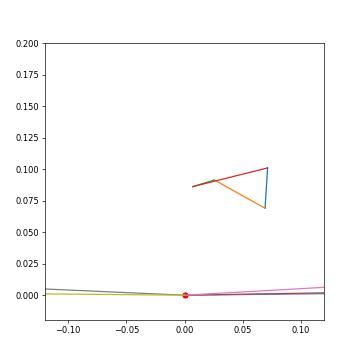
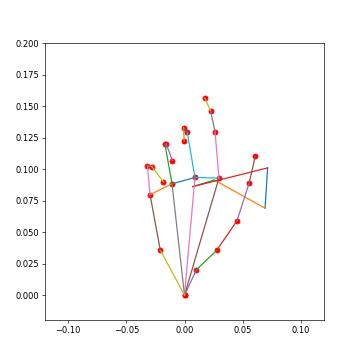
update

diff --git a/openteach/components/detector/keypoint_transform.py b/openteach/components/detector/keypoint_transform.py
@@ -109,29 +109,45 @@ class TransformHandPositionCoords(Component):
                 data_type, hand_coords_right = self._get_hand_coords_right()
 
                 # Find the transformed hand coordinates and the transformed hand local frame
-                _, translated_hand_coord_frame_left = self.transform_keypoints(hand_coords_left)
-                transformed_hand_coords_right, _ = self.transform_keypoints(hand_coords_right)
-
+                transformed_hand_coords_left, translated_hand_coord_frame_left = self.transform_keypoints(hand_coords_left)
+                transformed_hand_coords_right, translated_hand_coord_frame_right = self.transform_keypoints(hand_coords_right)
+ 
+                
+                # transformed_hand_coords=np.stack((transformed_hand_coords_right[0], transformed_hand_coords_left[1:]),axis=0)
+                #translated_hand_coord_frame=np.stack((translated_hand_coord_frame_right[0], translated_hand_coord_frame_left[1:]),axis=0)
+                # print(transformed_hand_coords_right[0].shape)
+                # print(transformed_hand_coords_right[1:].shape)
+                #translated_hand_coord_frame=np.stack((translated_hand_coord_frame_right[0], translated_hand_coord_frame_left[1:]),axis=0)
+                #print(translated_hand_coord_frame.shape)
                 # Passing the transformed coords into a moving average to filter the noise. The higher the moving average limit, the more the noise is filtered. But values higher than 50 might make the keypoint less responsive.
                 self.averaged_hand_coords = moving_average(
-                    transformed_hand_coords_right, 
+                    transformed_hand_coords_left, 
                     self.coord_moving_average_queue, 
                     self.moving_average_limit
                 )
 
                 # Passing the transformed frame into a moving average to filter the noise. The higher the moving average limit, the more the noise is filtered. But the
-                self.averaged_hand_frame = moving_average(
+                averaged_hand_frame_left = moving_average(
                     translated_hand_coord_frame_left, 
                     self.frame_moving_average_queue, 
                     self.moving_average_limit
                 )
+                
+                averaged_hand_frame_right = moving_average(
+                    translated_hand_coord_frame_right, 
+                    self.frame_moving_average_queue, 
+                    self.moving_average_limit
+                )
                 # Publish the transformed hand coordinates
-                print(self.averaged_hand_coords)
-                print(self.averaged_hand_frame)
                 self.transformed_keypoint_publisher.pub_keypoints(self.averaged_hand_coords, 'transformed_hand_coords')
                 # Publish the transformed hand frame
                 if data_type == 'absolute':
+                    t=averaged_hand_frame_right[0]
+                    self.averaged_hand_frame=np.concatenate((t[[0,2,1]].reshape(1,-1), averaged_hand_frame_left[1:]),axis=0)
+                    #print(self.averaged_hand_frame)
                     self.transformed_keypoint_publisher.pub_keypoints(self.averaged_hand_frame, 'transformed_hand_frame')
+                    
+                    
                 
                 # End the timer
                 self.timer.end_loop()

diff --git a/openteach/components/detector/keypoint_transform_backup.py b/openteach/components/detector/keypoint_transform_backup.py
@@ -38,13 +38,9 @@ class TransformHandPositionCoords(Component):
 
     # Create a coordinate frame for the hand
     def _get_coord_frame(self, index_knuckle_coord, pinky_knuckle_coord):
-        # palm_normal = normalize_vector(np.cross(index_knuckle_coord, pinky_knuckle_coord))   # Current Z
-        # palm_direction = normalize_vector(index_knuckle_coord + pinky_knuckle_coord)         # Current Y
-        # cross_product = normalize_vector(np.cross(palm_direction, palm_normal))              # Current X
-        palm_normal = np.cross(index_knuckle_coord, pinky_knuckle_coord)   # Current Z
-        palm_direction = index_knuckle_coord + pinky_knuckle_coord        # Current Y
-        cross_product = np.cross(palm_direction, palm_normal)          
-
+        palm_normal = normalize_vector(np.cross(index_knuckle_coord, pinky_knuckle_coord))   # Current Z
+        palm_direction = normalize_vector(index_knuckle_coord + pinky_knuckle_coord)         # Current Y
+        cross_product = normalize_vector(np.cross(palm_direction, palm_normal))              # Current X
         return [cross_product, palm_direction, palm_normal]
 
     # Create a coordinate frame for the arm 
@@ -97,8 +93,7 @@ class TransformHandPositionCoords(Component):
                     self.frame_moving_average_queue, 
                     self.moving_average_limit
                 )
-                print(self.averaged_hand_coords)
-                print(self.averaged_hand_frame)
+
 
                 self.transformed_keypoint_publisher.pub_keypoints(self.averaged_hand_coords, 'transformed_hand_coords')
                 if data_type == 'absolute':
